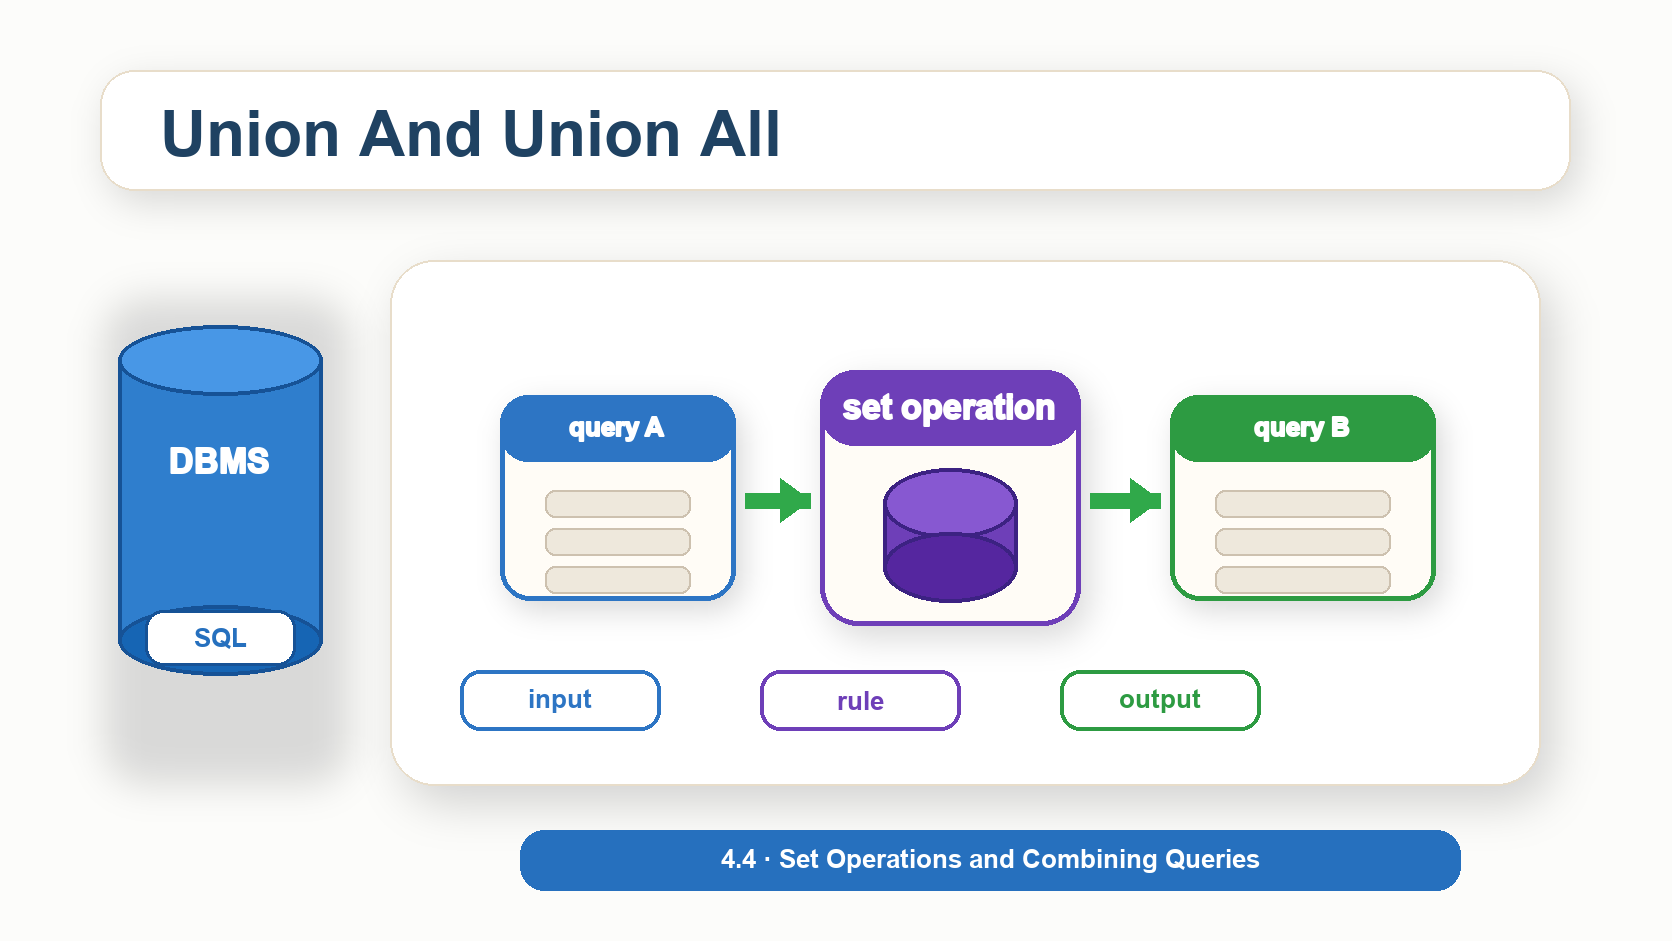
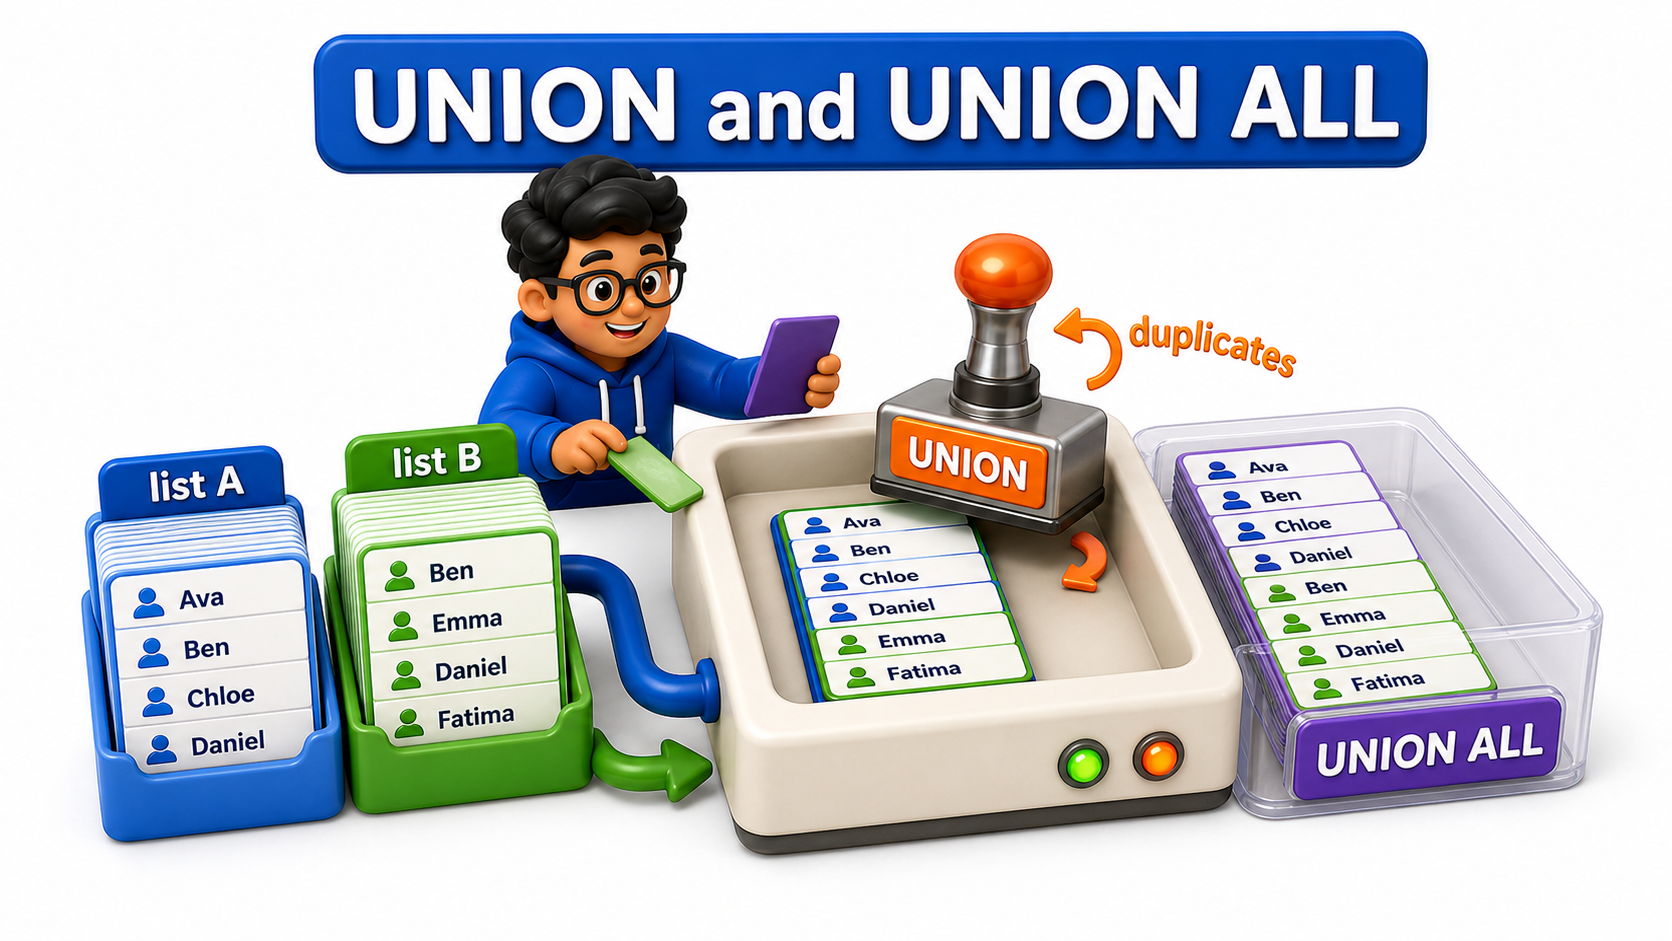
Replace unit 4.4 intro placeholders with actual 3D visuals

diff --git a/content/DBMS_Upload_Chapters/4.4 - Set Operations and Combining Queries/03_when_to_use_set_operations_vs_joins.md b/content/DBMS_Upload_Chapters/4.4 - Set Operations and Combining Queries/03_when_to_use_set_operations_vs_joins.md
@@ -8,7 +8,7 @@ The short version is that joins combine columns from two tables side by side, wh
 
 **Definition:** Joins widen rows by attaching columns from a matching table, set operations stack or compare whole rows across similarly shaped queries, and `EXISTS` checks for a match without pulling in any columns at all, and recognizing which shape a question actually needs is what decides between them.
 
-![Intro visual for when to use set operations vs joins](https://s3.ap-south-1.amazonaws.com/static.bytexl.app/uploads/44sjn9mdv/content/images/03_intro_when_to_use_set_operations_vs_joins_clean_56885995.png)
+![Intro visual for when to use set operations vs joins](https://s3.ap-south-1.amazonaws.com/static.bytexl.app/uploads/44sjn9mdv/content/images/03_intro_when_to_use_set_operations_vs_joins_actual3d_0a28d95b.png)
 
 ## The Core Difference: Sideways vs. Stacked
 

diff --git a/content/DBMS_Upload_Chapters/4.4 - Set Operations and Combining Queries/01_union_and_union_all.md b/content/DBMS_Upload_Chapters/4.4 - Set Operations and Combining Queries/01_union_and_union_all.md
@@ -6,7 +6,7 @@ This is not a join, since she is not trying to match rows between the two tables
 
 **Definition:** `UNION` and `UNION ALL` combine the results of two or more queries vertically into one result set, with `UNION` removing exact duplicates and `UNION ALL` keeping every row, both requiring the same number and type of columns from each query involved.
 
-![Intro visual for union and union all](https://s3.ap-south-1.amazonaws.com/static.bytexl.app/uploads/44sjn9mdv/content/images/01_intro_union_and_union_all_clean_96bb5706.png)
+![Intro visual for union and union all](https://s3.ap-south-1.amazonaws.com/static.bytexl.app/uploads/44sjn9mdv/content/images/01_intro_union_and_union_all_actual3d_adec609b.png)
 
 ## Stacking Two Result Sets Into One
 

diff --git a/content/DBMS_Upload_Chapters/4.4 - Set Operations and Combining Queries/02_intersect_and_except.md b/content/DBMS_Upload_Chapters/4.4 - Set Operations and Combining Queries/02_intersect_and_except.md
@@ -10,7 +10,7 @@ Tanvi's next request from the marketing team is more specific than a merged mail
 
 **Definition:** `INTERSECT` isolates exactly the rows two queries have in common, and `EXCEPT` isolates the rows one query has that the other does not, with `EXCEPT` alone being sensitive to which query is written first.
 
-![Intro visual for intersect and except](https://s3.ap-south-1.amazonaws.com/static.bytexl.app/uploads/44sjn9mdv/content/images/02_intro_intersect_and_except_clean_354d3672.png)
+![Intro visual for intersect and except](https://s3.ap-south-1.amazonaws.com/static.bytexl.app/uploads/44sjn9mdv/content/images/02_intro_intersect_and_except_actual3d_22b3df67.png)
 
 ## Finding Rows Common to Both Queries
 

diff --git a/content/DBMS/4 - SQL for Data Retrieval and Analytics/4.4 - Set Operations and Combining Queries/03_when_to_use_set_operations_vs_joins.md b/content/DBMS/4 - SQL for Data Retrieval and Analytics/4.4 - Set Operations and Combining Queries/03_when_to_use_set_operations_vs_joins.md
@@ -22,7 +22,7 @@ ON-IMAGE TEXT: show a short bold title "When To Use Set Operations Vs Joins" plu
 GOAL: make the opening idea instantly clear and engaging while matching the existing DBMS reading-material image standards.
 -->
 
-![Intro visual for when to use set operations vs joins](https://s3.ap-south-1.amazonaws.com/static.bytexl.app/uploads/44sjn9mdv/content/images/03_intro_when_to_use_set_operations_vs_joins_clean_56885995.png)
+![Intro visual for when to use set operations vs joins](https://s3.ap-south-1.amazonaws.com/static.bytexl.app/uploads/44sjn9mdv/content/images/03_intro_when_to_use_set_operations_vs_joins_actual3d_0a28d95b.png)
 
 ## The Core Difference: Sideways vs. Stacked
 

diff --git a/content/DBMS/4 - SQL for Data Retrieval and Analytics/4.4 - Set Operations and Combining Queries/02_intersect_and_except.md b/content/DBMS/4 - SQL for Data Retrieval and Analytics/4.4 - Set Operations and Combining Queries/02_intersect_and_except.md
@@ -24,7 +24,7 @@ ON-IMAGE TEXT: show a short bold title "Intersect And Except" plus only these fe
 GOAL: make the opening idea instantly clear and engaging while matching the existing DBMS reading-material image standards.
 -->
 
-![Intro visual for intersect and except](https://s3.ap-south-1.amazonaws.com/static.bytexl.app/uploads/44sjn9mdv/content/images/02_intro_intersect_and_except_clean_354d3672.png)
+![Intro visual for intersect and except](https://s3.ap-south-1.amazonaws.com/static.bytexl.app/uploads/44sjn9mdv/content/images/02_intro_intersect_and_except_actual3d_22b3df67.png)
 
 ## Finding Rows Common to Both Queries
 

diff --git a/content/DBMS/4 - SQL for Data Retrieval and Analytics/4.4 - Set Operations and Combining Queries/01_union_and_union_all.md b/content/DBMS/4 - SQL for Data Retrieval and Analytics/4.4 - Set Operations and Combining Queries/01_union_and_union_all.md
@@ -20,7 +20,7 @@ ON-IMAGE TEXT: show a short bold title "Union And Union All" plus only these few
 GOAL: make the opening idea instantly clear and engaging while matching the existing DBMS reading-material image standards.
 -->
 
-![Intro visual for union and union all](https://s3.ap-south-1.amazonaws.com/static.bytexl.app/uploads/44sjn9mdv/content/images/01_intro_union_and_union_all_clean_96bb5706.png)
+![Intro visual for union and union all](https://s3.ap-south-1.amazonaws.com/static.bytexl.app/uploads/44sjn9mdv/content/images/01_intro_union_and_union_all_actual3d_adec609b.png)
 
 ## Stacking Two Result Sets Into One
 
